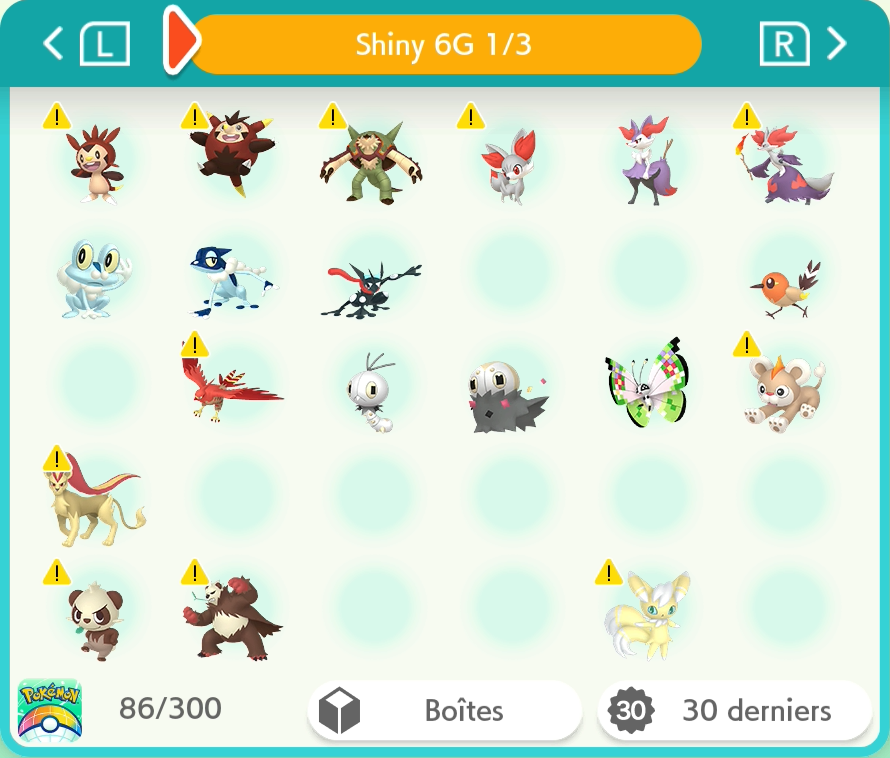
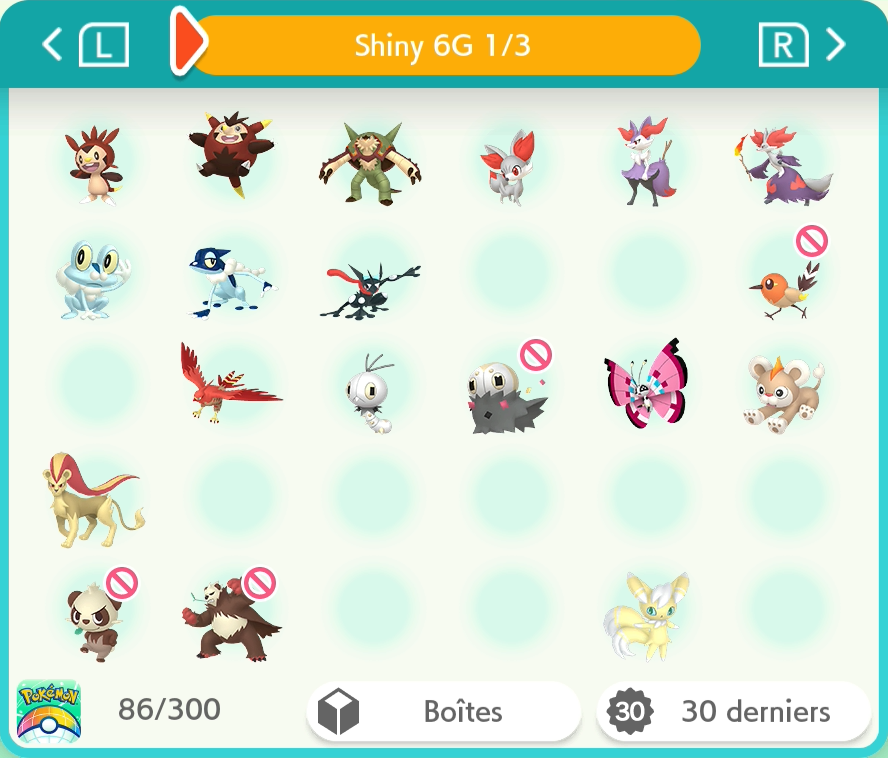
Prismillon : Motif Floraison

diff --git a/README.md b/README.md
@@ -12,7 +12,7 @@ Pokémon-Elément-Sh -> <a href="https://www.pokemon-element-sh.fr/profil/karyno
 |3G|29/135|+7 : Spinda, Regirock, Regice, Registeel, Latias, Latios, Kyogre & Groudon|
 |4G|21/107|+1 : Créhelf|
 |5G|31/155|+3 : Genesect (JP Event), Venipatte & Scobolide|
-|6G|30/71|+8 : Amagara, Dragmara, Ptyranidur, Volcanion (HOME), Diancie (JP Event), Lépidonille, Pérégrain & Prismillon (Fantaisie)|
+|6G|30/71|+8 : Amagara, Dragmara, Ptyranidur, Volcanion (HOME), Diancie (JP Event), Lépidonille, Pérégrain & Prismillon (Floraison)|
 |7G|20/84|+4 : Type:0, Silvallié, Mandrillon & Sovkipou|
 |8G|34/90|+1 : Crèmy|
 |9G|46/108|+1 : Amassel|
@@ -31,7 +31,7 @@ Pokémon-Elément-Sh -> <a href="https://www.pokemon-element-sh.fr/profil/karyno
 <details>
   <summary>Bonus - Motif de Prismillon</summary>
 
-### Motif de Prismillon [9/19] +9
+### Motif de Prismillon [10/19] +10
 
 | Motif | Prog |
 |---|:--:|
@@ -42,7 +42,7 @@ Pokémon-Elément-Sh -> <a href="https://www.pokemon-element-sh.fr/profil/karyno
 |Motif Cyclone||
 |Motif Delta||
 |Motif Fantaisie (événementiel / motif de base dans Écarlate et Violet)|Obtenu|
-|Motif Floraison (motif de base dans X et Y, jeux où il est apparu pour la première fois)||
+|Motif Floraison (motif de base dans X et Y, jeux où il est apparu pour la première fois)|Obtenu|
 |Motif Glace|Obtenu|
 |Motif Jungle||
 |Motif Mangrove||
